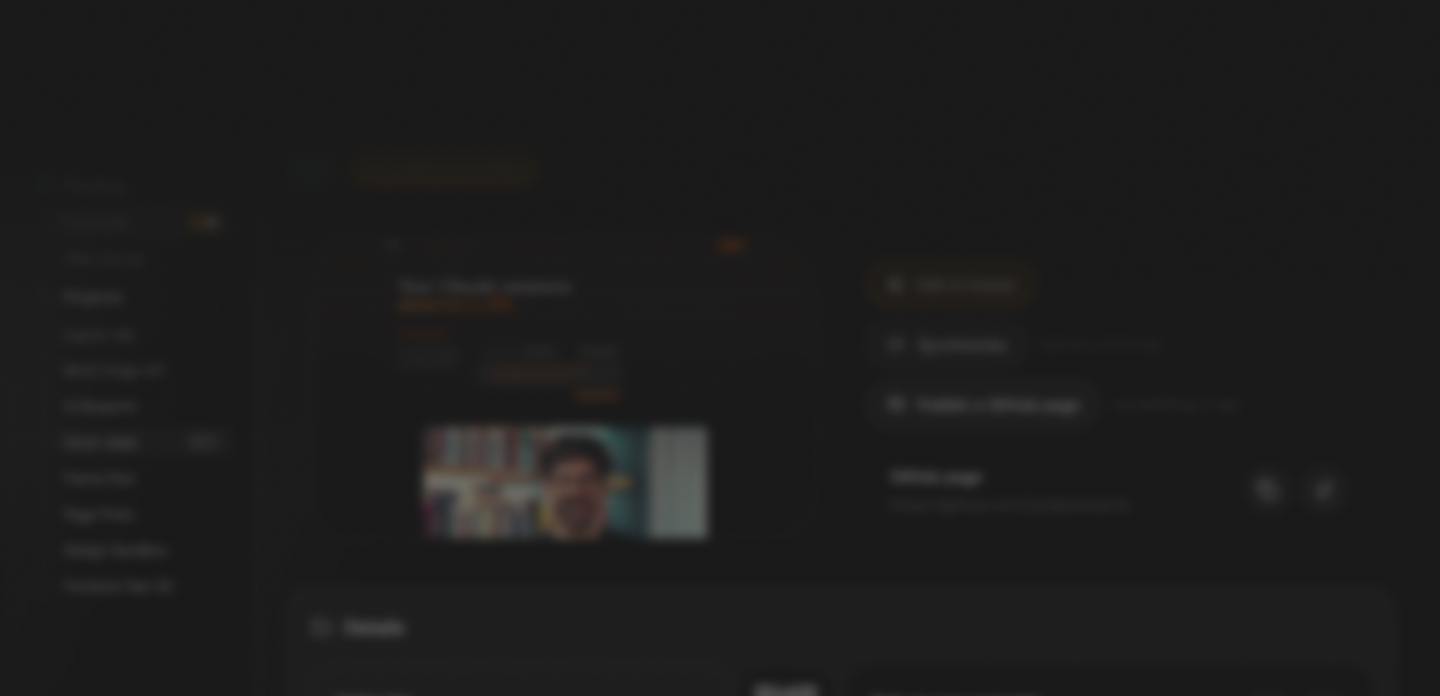
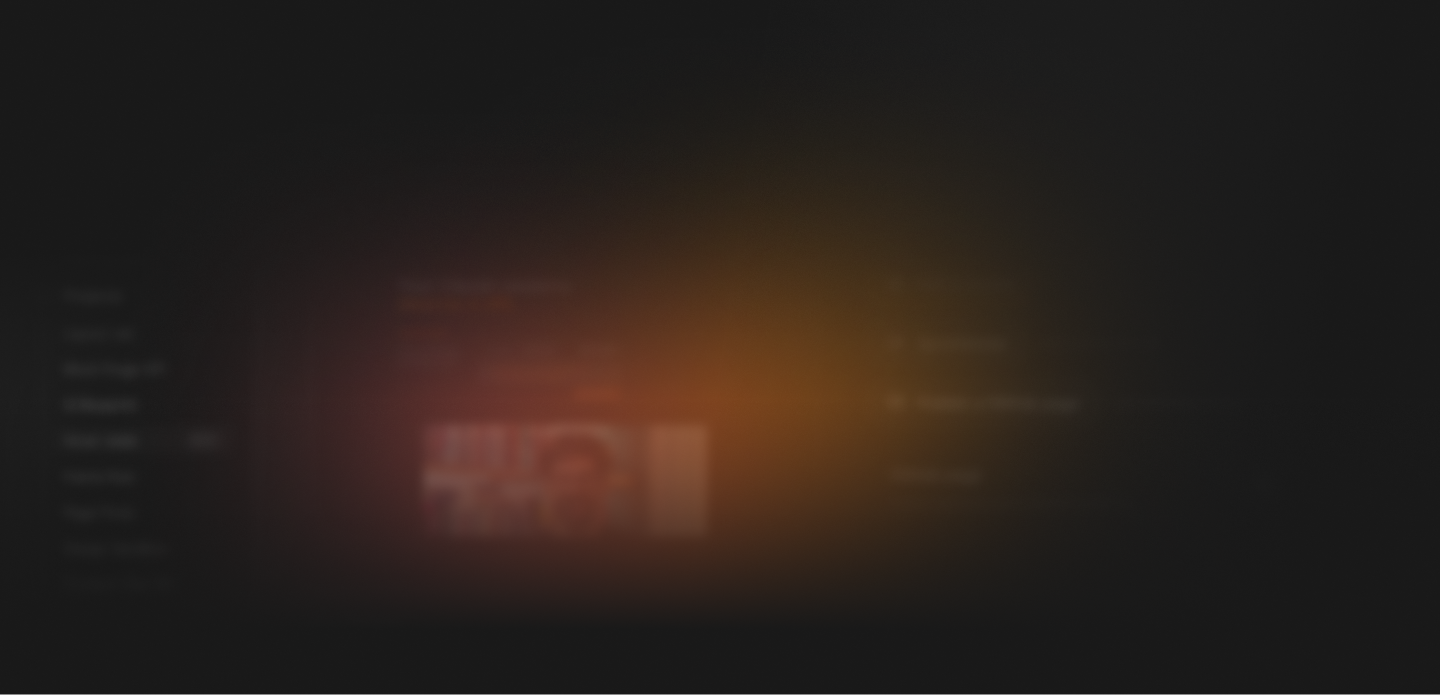
Rename public background images to bg-1 through bg-4

Changed region(s): [[0.1875, 0.2719, 0.7188, 0.846], [0.0, 0.9669, 1.0, 1.0], [0.2188, 0.8763, 0.2812, 0.9367]]

diff --git a/src/static/css/globals.css b/src/static/css/globals.css
@@ -29,8 +29,8 @@
   --shadow-card-inset:
     inset -1px -1px 0px rgba(255, 255, 255, 0.1), inset 1px 1px 0px rgba(255, 255, 255, 0.2);
 
-  --background-image-app-1: url("/images/bg-4@2x.png");
-  --background-image-app-2: url("/images/bg-5@2x.png");
-  --background-image-app-3: url("/images/bg-6@2x.png");
-  --background-image-app-4: url("/images/bg-7@2x.png");
+  --background-image-app-1: url("/images/bg-1@2x.png");
+  --background-image-app-2: url("/images/bg-2@2x.png");
+  --background-image-app-3: url("/images/bg-3@2x.png");
+  --background-image-app-4: url("/images/bg-4@2x.png");
 }
